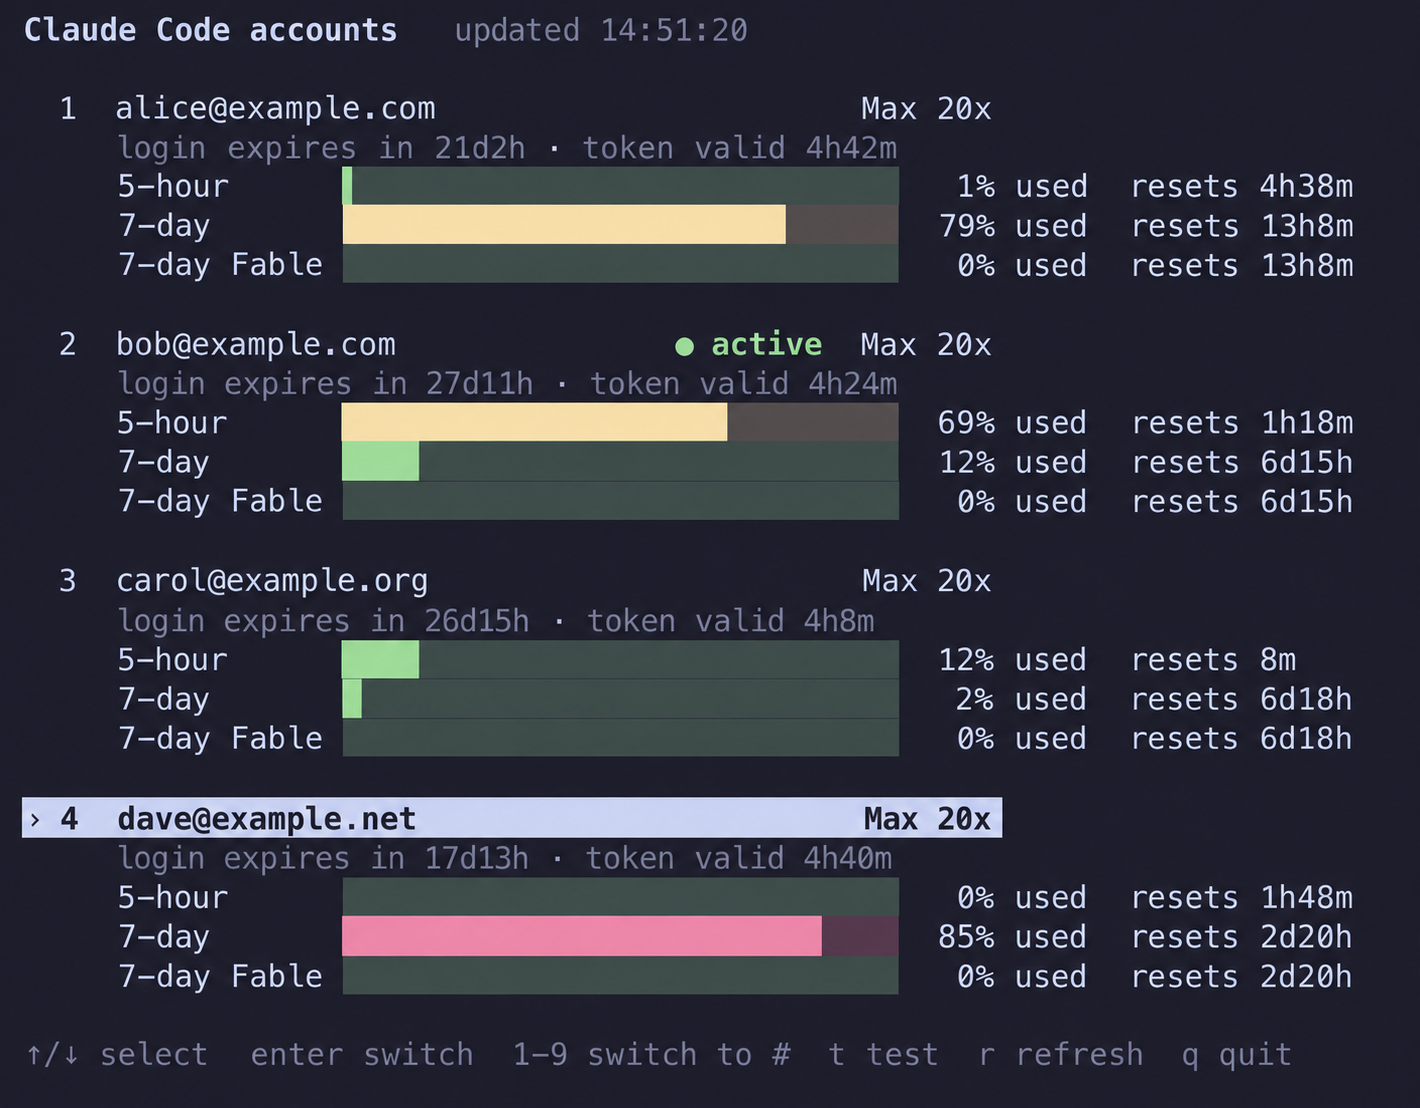
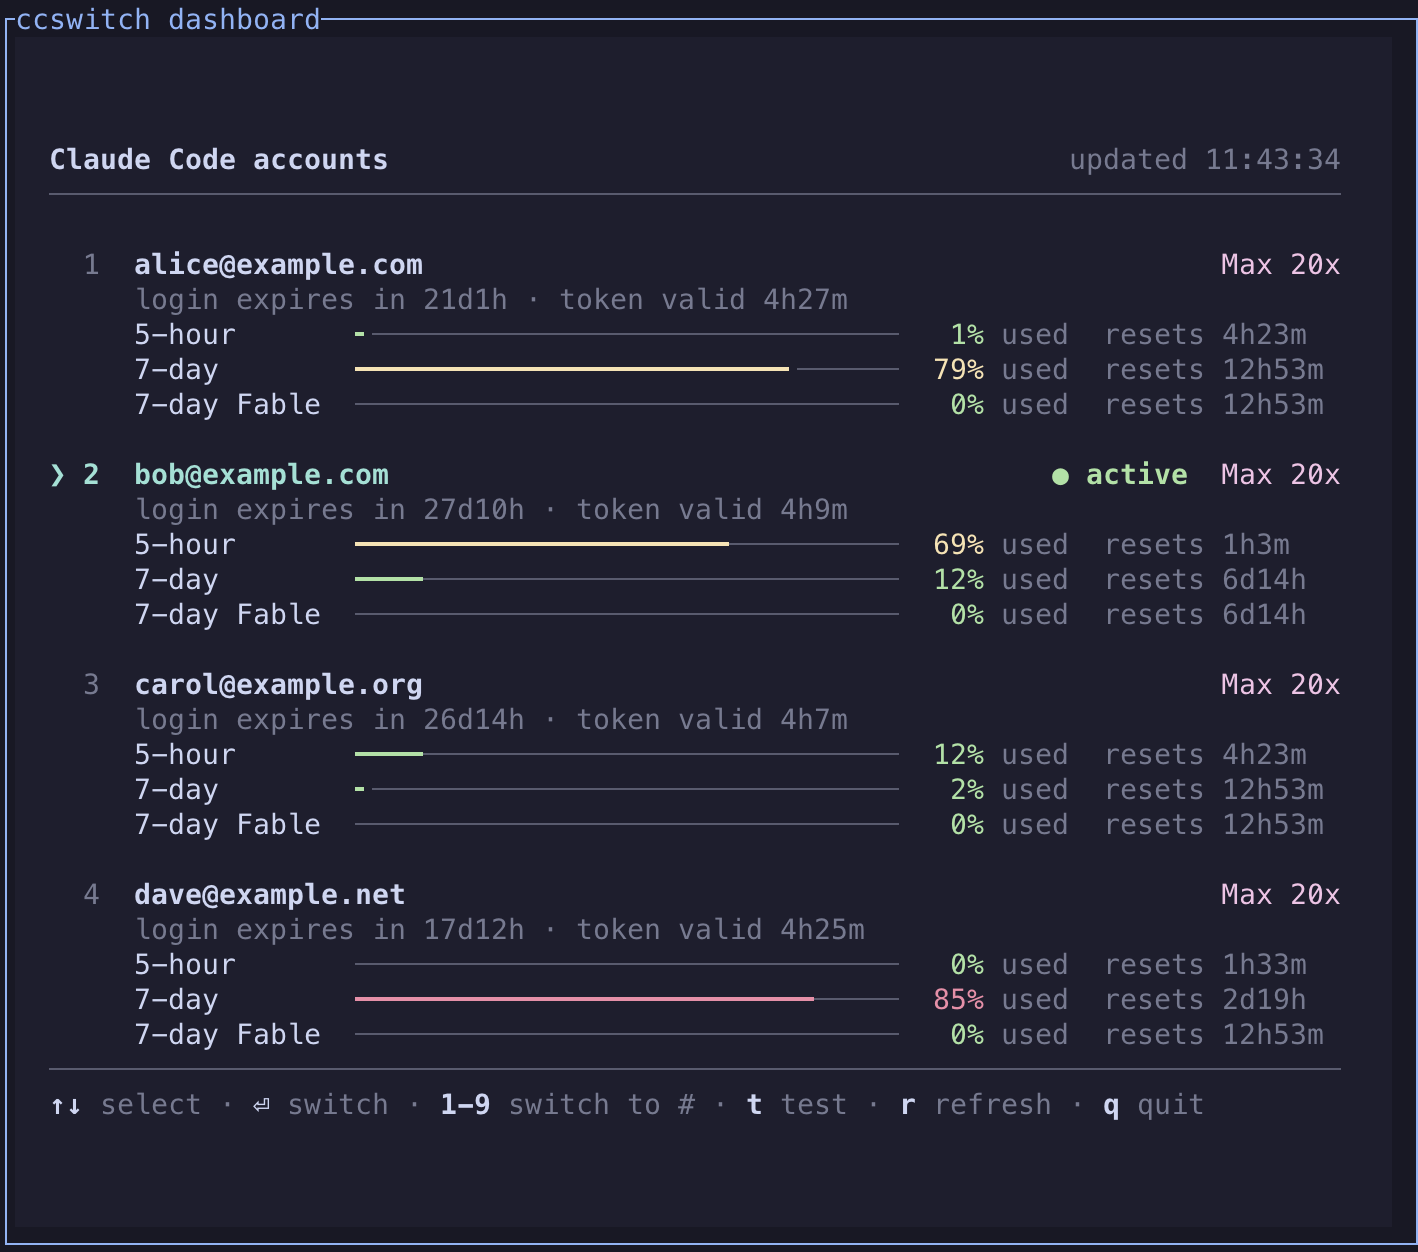
feat(dashboard): responsive layout, slim bars, and a Herdr popup
The frame now reads the real terminal size from /dev/tty (tput inside $(...) always saw 80x24),
caps itself at 78 columns, centers in larger terminals, truncates long emails, and picks the widest
key-hint line that fits. When the accounts do not fit, it scrolls to keep the selected one in view
and counts the ones cut off. Redraws overwrite in place instead of clearing first, periodic reloads
keep the frame on screen, and a resize redraws within a second.

The Herdr plugin opens the dashboard in a centered 84-column popup instead of an overlay sized by
the active pane.

diff --git a/README.md b/README.md
@@ -85,7 +85,7 @@ ccswitch --help
 - **Token state**: whether the access token is valid, was just renewed, or the login is dead
 - **5-hour and 7-day usage**: percent used, with the time until each window resets, plus any per-model weekly limits
 
-Keys: `↑`/`↓` (or `j`/`k`) select, `Enter` switches to the selected account, `1`-`9` switch to that account number, `t` tests the selected account (see below), `r` reloads, `q` quits. Every switch asks for confirmation. The screen reloads every 5 minutes.
+Keys: `↑`/`↓` (or `j`/`k`) select, `Enter` switches to the selected account, `1`-`9` switch to that account number, `t` tests the selected account (see below), `r` reloads, `q` quits. Every switch asks for confirmation. The screen reloads every 5 minutes and fits itself to the terminal: in a small window it narrows and, when not every account fits, scrolls to keep the selected one in view.
 
 To show usage for inactive accounts, the dashboard renews an inactive account's expired access token and saves the result back to that account's backup. It never renews the active account's live token, because Claude Code holds it; when that token has expired, the dashboard says so and Claude Code renews it on its next request.
 
@@ -93,7 +93,7 @@ When stdin or stdout is not a terminal, `--dashboard` prints one snapshot and ex
 
 #### In Herdr
 
-The [Herdr](https://herdr.dev) plugin in `herdr-plugin/` opens the dashboard in an overlay over the active pane; quitting it restores the layout.
+The [Herdr](https://herdr.dev) plugin in `herdr-plugin/` opens the dashboard in a centered popup that leaves your panes alone; quitting it closes the popup.
 
 ```bash
 herdr plugin install wayne930242/cc-account-switcher/herdr-plugin

diff --git a/README.zh-TW.md b/README.zh-TW.md
@@ -85,7 +85,7 @@ ccswitch --help
 - **token 狀態**：access token 是否有效、是否剛更新，或登入已經失效
 - **5 小時與 7 天用量**：已用百分比和距離重置的時間，也會列出各模型的每週額度
 
-按鍵：`↑`／`↓`（或 `j`／`k`）選擇帳號，`Enter` 切到選取的帳號，`1`–`9` 切到該編號的帳號，`t` 測試選取的帳號（見下方），`r` 重新整理，`q` 離開。每次切換都會先詢問確認，畫面每 5 分鐘自動更新。
+按鍵：`↑`／`↓`（或 `j`／`k`）選擇帳號，`Enter` 切到選取的帳號，`1`–`9` 切到該編號的帳號，`t` 測試選取的帳號（見下方），`r` 重新整理，`q` 離開。每次切換都會先詢問確認，畫面每 5 分鐘自動更新，並隨終端機大小調整：視窗小時會縮窄，放不下所有帳號時會捲動，讓選取的帳號一直留在畫面上。
 
 為了查到非使用中帳號的用量，看板會更新這些帳號已過期的 access token，並存回該帳號的備份。使用中帳號的 token 由 Claude Code 持有，看板不會去更新它；這個 token 過期時，看板只會標示出來，Claude Code 下次發出請求時會自己更新。
 
@@ -93,7 +93,7 @@ ccswitch --help
 
 #### 在 Herdr 裡開啟
 
-`herdr-plugin/` 是 [Herdr](https://herdr.dev) 的 plugin，會在目前的 pane 上用 overlay 開啟看板，離開後版面自動還原。
+`herdr-plugin/` 是 [Herdr](https://herdr.dev) 的 plugin，會在畫面中央用浮動 popup 開啟看板，不動到原本的 pane，離開後 popup 自動關閉。
 
 ```bash
 herdr plugin install wayne930242/cc-account-switcher/herdr-plugin
